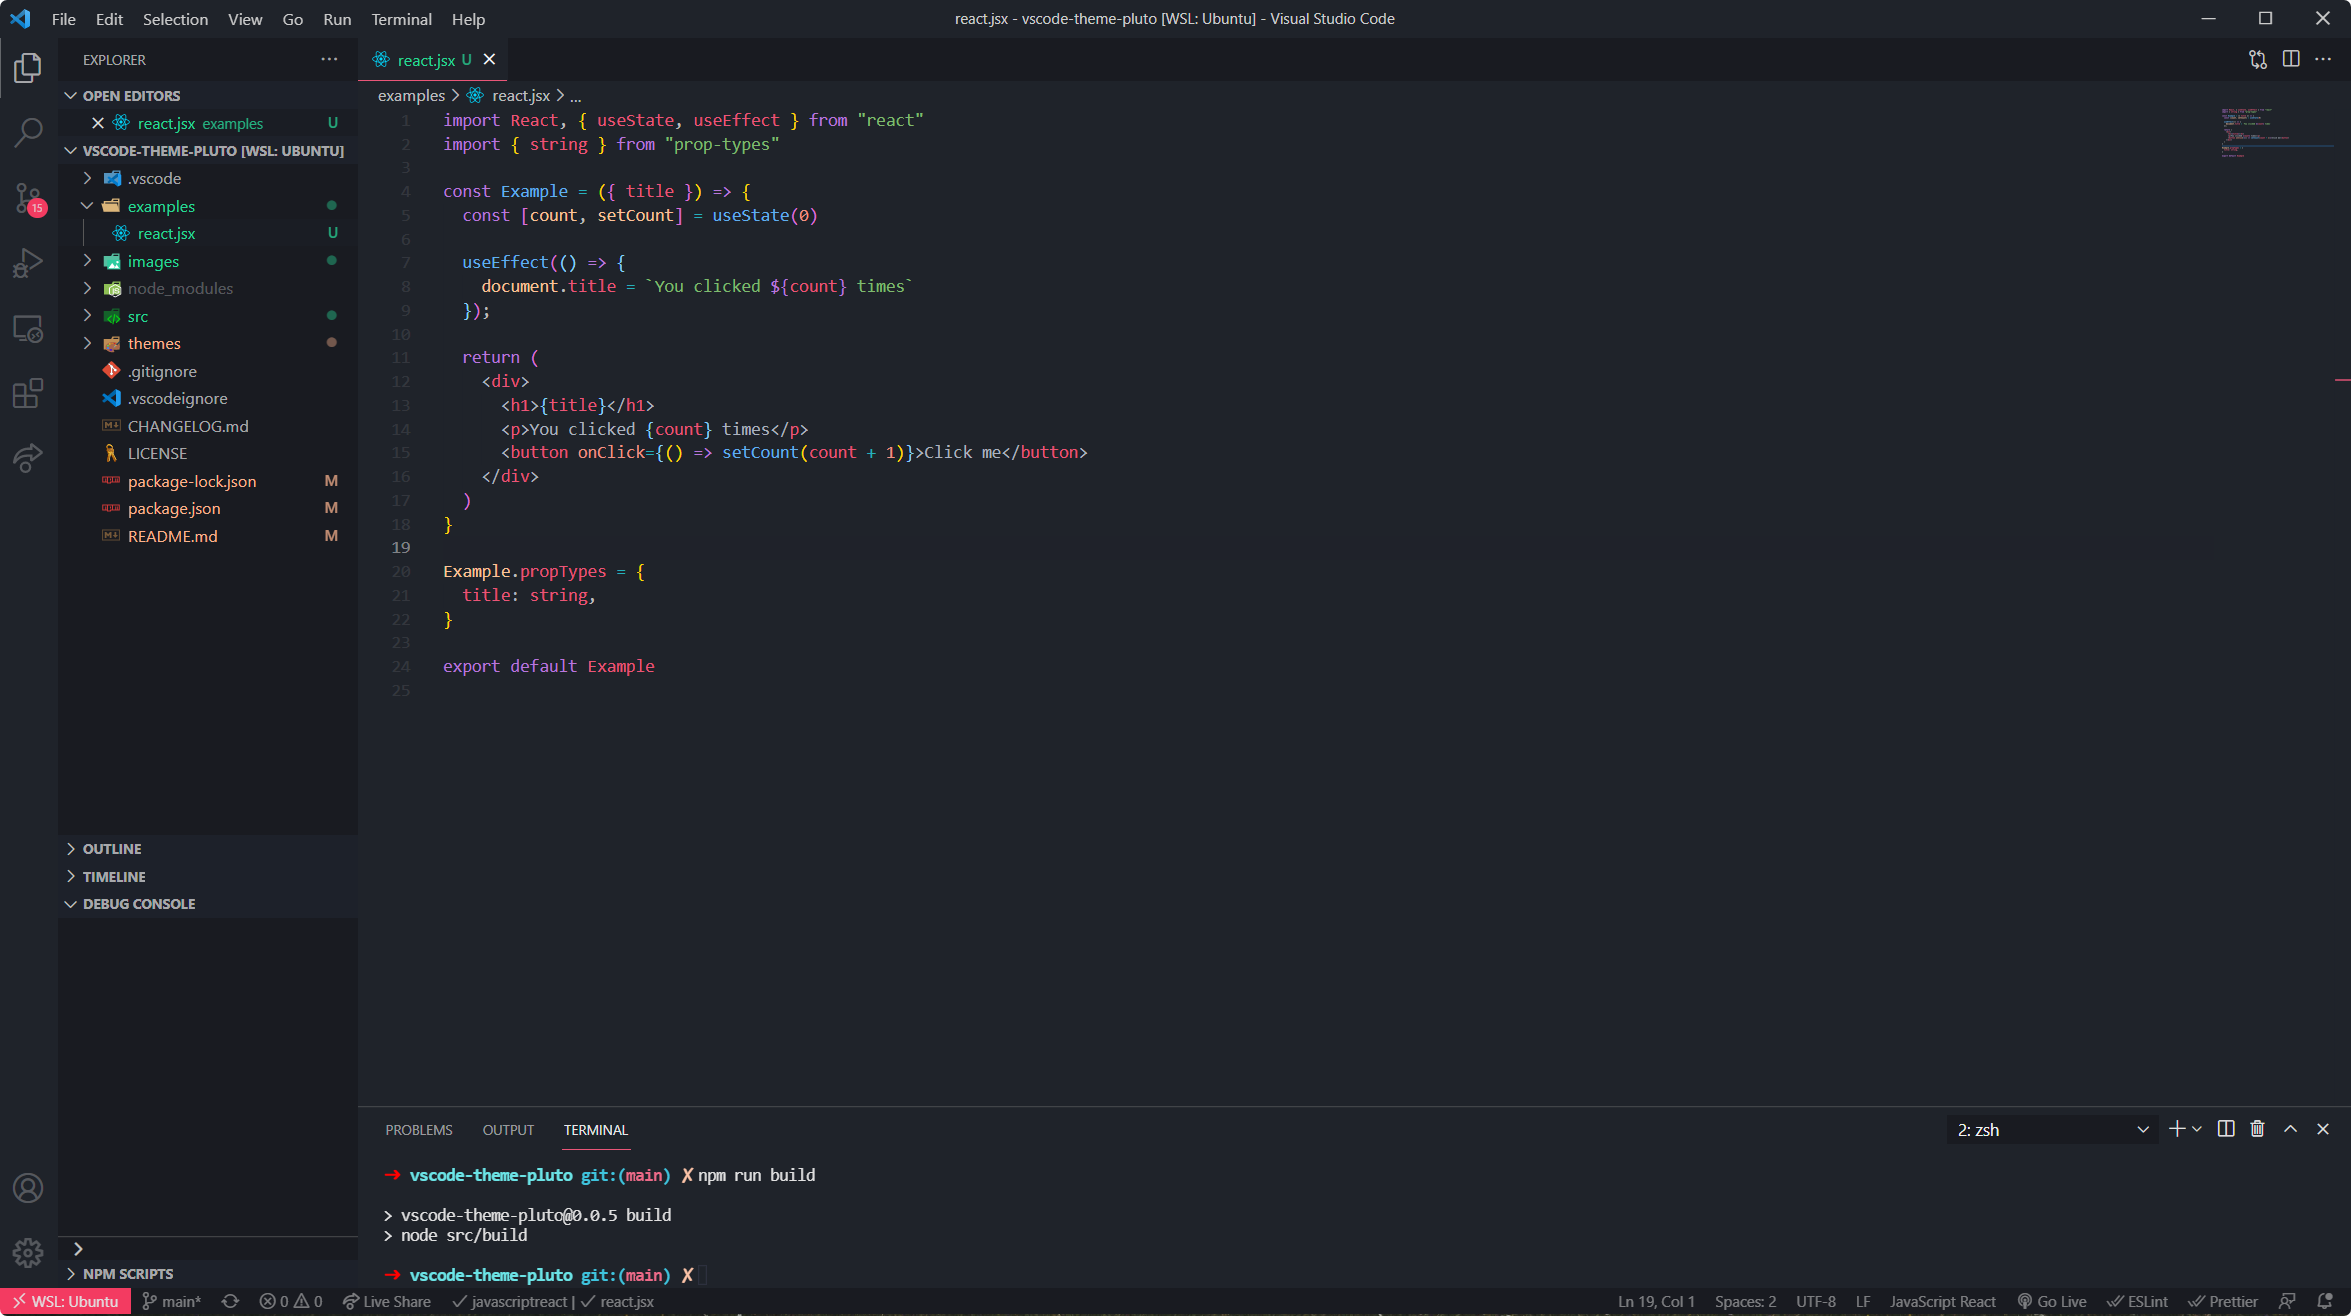
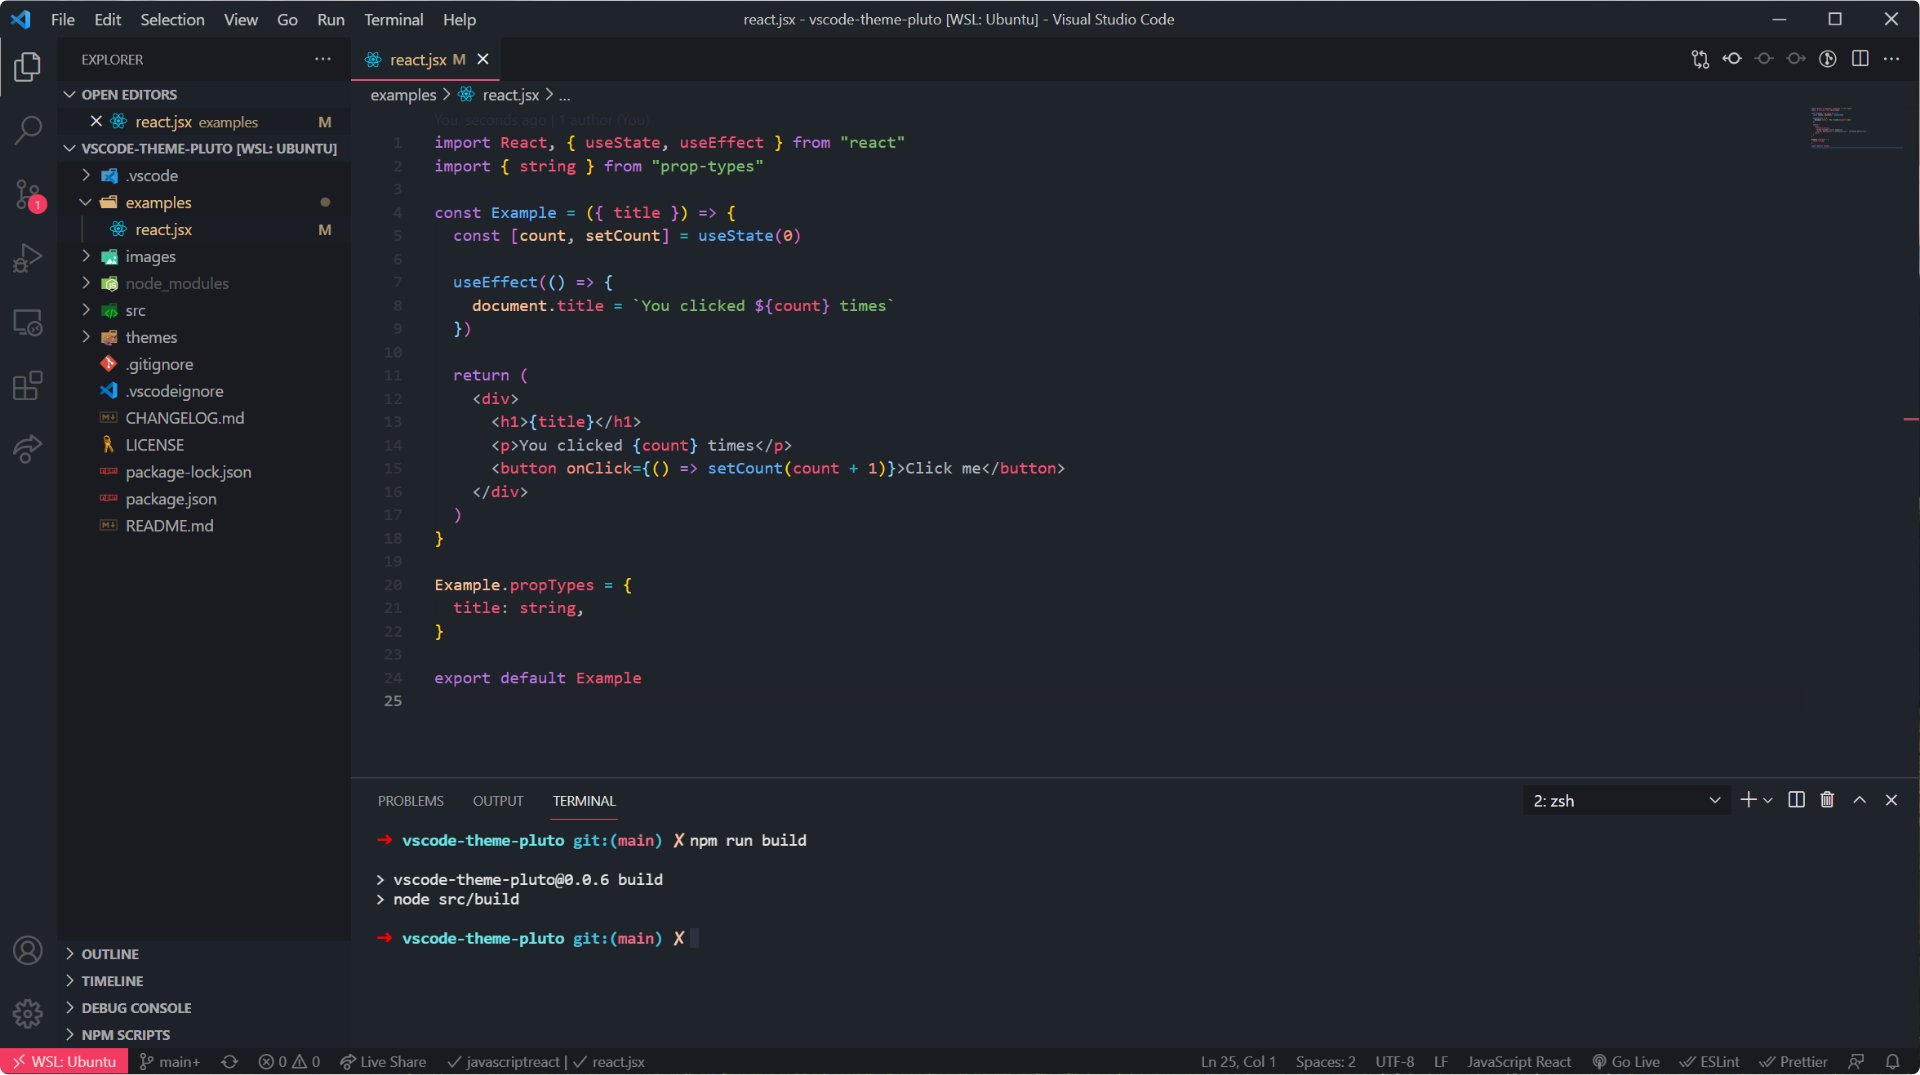
chore: better image

diff --git a/examples/react.jsx b/examples/react.jsx
@@ -6,7 +6,7 @@ const Example = ({ title }) => {
 
   useEffect(() => {
     document.title = `You clicked ${count} times`
-  });
+  })
 
   return (
     <div>
